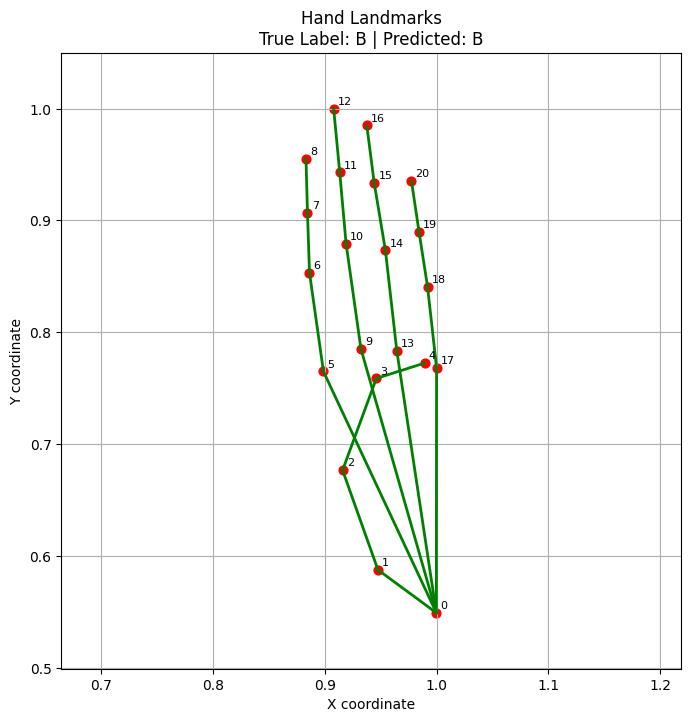
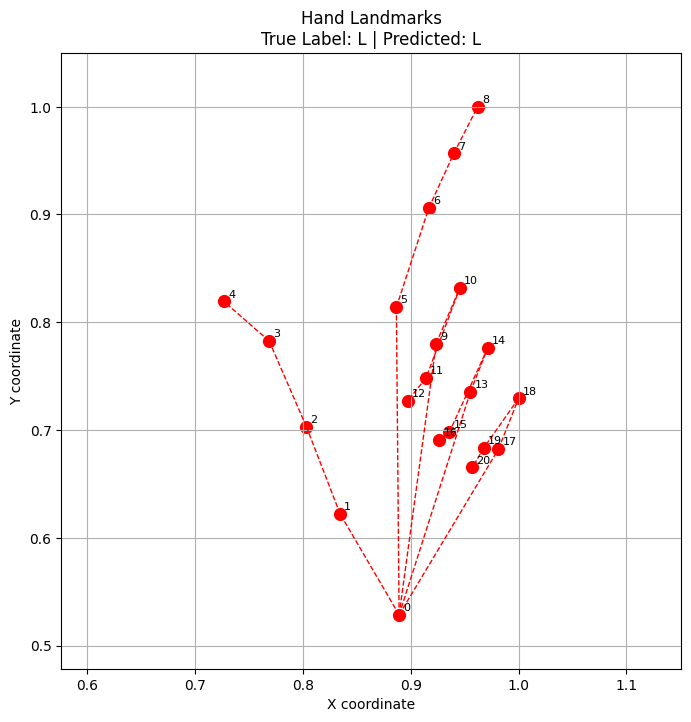
More info in model customization

diff --git a/src/testTrain/modelTrain/modelTest.py b/src/testTrain/modelTrain/modelTest.py
@@ -110,10 +110,10 @@ y_coords = 1 - y_coords  # Invert Y axis
 for start_idx, end_idx in HAND_CONNECTIONS:
     plt.plot([x_coords[start_idx], x_coords[end_idx]], 
              [y_coords[start_idx], y_coords[end_idx]], 
-             'g-', linewidth=2)
+             'r--', linewidth=1)
 
 # Plot the landmarks
-plt.scatter(x_coords, y_coords, c='red', s=40)
+plt.scatter(x_coords, y_coords, c='red', s=72)
 
 # Add landmark numbers for reference (with smaller font)
 for i in range(21):

diff --git a/README.md b/README.md
@@ -46,7 +46,17 @@ python main.py
 - **Image**: Image for the model to recognize
 
 ## Model Customization
-The `src/testTrain` folder contains all the necessary files for training and testing your own model variations. You can modify different parameters and settings to experiment with the model's behavior and performance. This allows for customization and potential improvements in accuracy, processing speed, or specific use cases. Feel free to explore and adjust the training configurations according to your needs
+The `src/testTrain` folder contains all the necessary files for training and testing your own model variations. You can modify different parameters and settings to experiment with the model's behavior and performance. This allows for customization and potential improvements in accuracy, processing speed, or specific use cases. Feel free to explore and adjust the training configurations according to your needs.
+
+It includes complete source code for the model creation pipeline. You'll find scripts for capturing and saving images for the dataset, converting these images to a .csv dataset format, and both training and testing the model. While the image files themselves are not included due to size constraints, all other necessary files are present. This allows you to either start from scratch with your own images or skip certain steps by using the provided intermediate files.
+
+<div align="center">
+    <img src="https://github.com/user-attachments/assets/fe3b644a-85f6-41d2-83f2-9d87754c9d3b" width="30%" />
+    &nbsp;&nbsp;
+    <img src="https://github.com/user-attachments/assets/7e1198db-569b-44e6-8bba-4af182f6764e" width="30%" />
+    &nbsp;&nbsp;
+    <img src="https://github.com/user-attachments/assets/f7dc9f5b-632a-4483-b19b-7440a8babdb3" width="30%" />
+</div>
 
 ## Technical
 - **Computer Vision**: OpenCV
